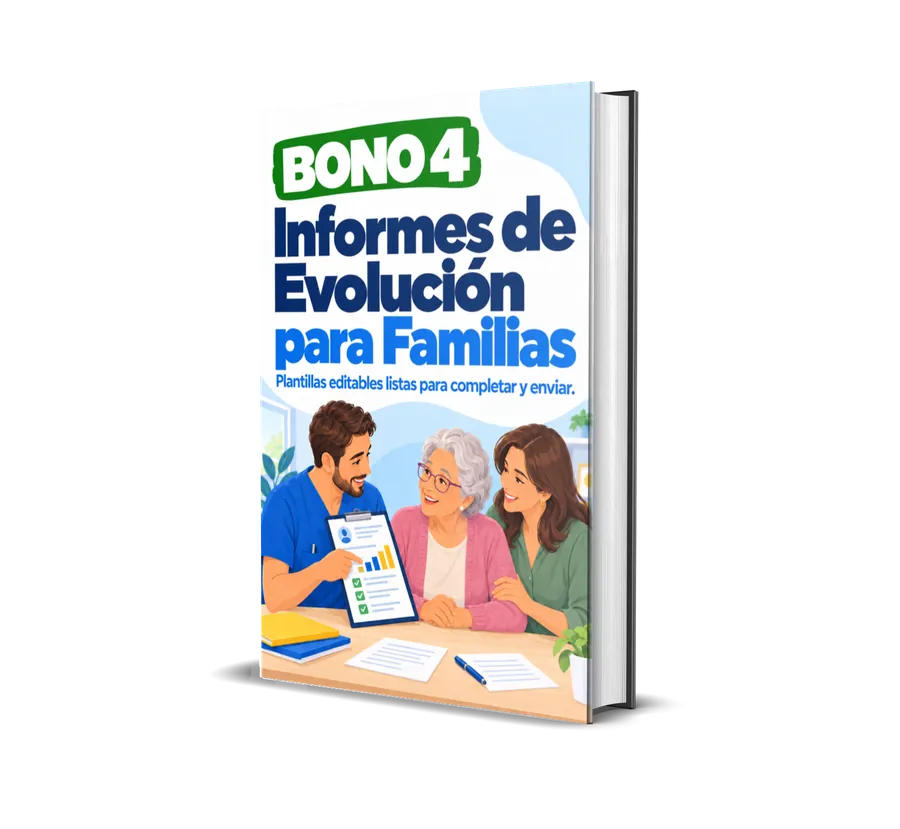
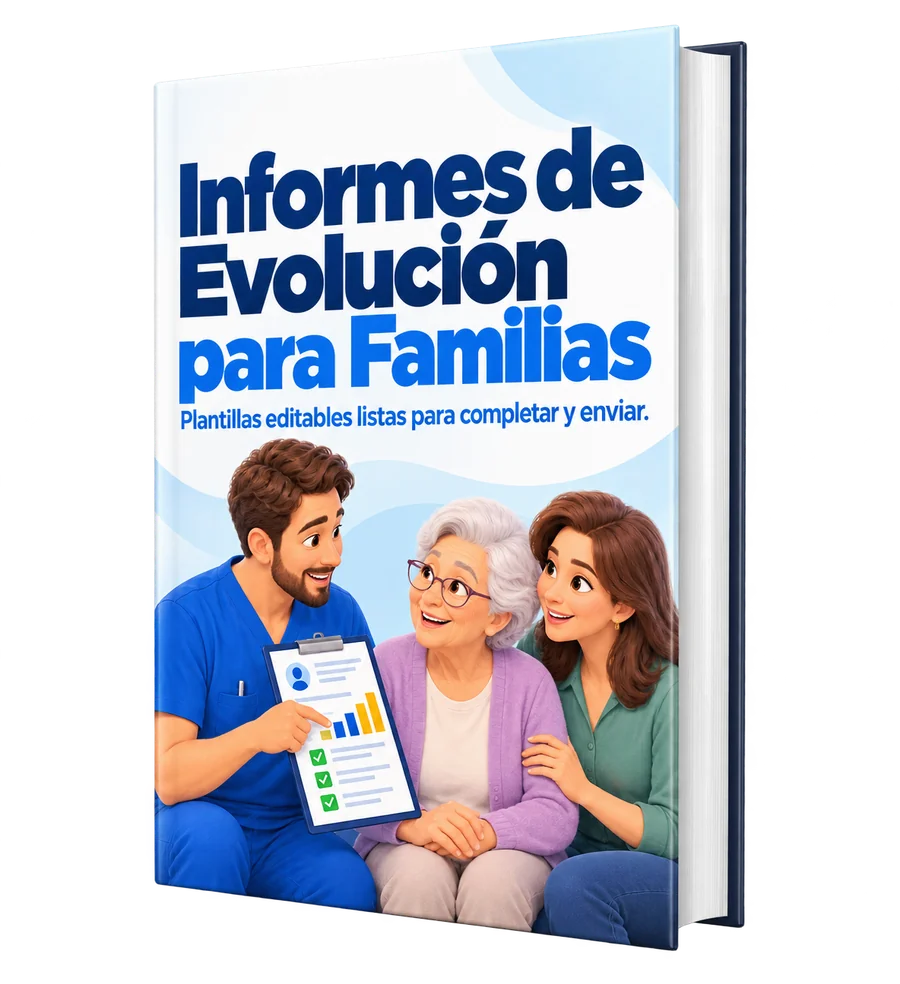
Replace bonus mockups, drop calendar bonus, add 2 bonuses + checklist
- Bono 01/02/03 (Evaluación, Adaptaciones, Informes para Familias):
  swapped in the new 3D transparent mockups provided, titles/copy
  untouched. Images still rendered with no card/border/shadow/filter
  on the wrapper — only the existing bonus-card frame.
- Removed "Calendario de Sesiones Listas para 3 Meses" entirely: its
  card, mockup, copy and price row. No other reference to it existed
  in the offer summary or FAQ.
- Added two new bonuses, same card pattern: "+100 Ejercicios ·
  Movilidad Reducida" and "Armador de Sesiones", with their mockups
  and the exact copy given. Bonus tags renumbered 01-05.
- Offer card summary ("resumo") now lists all 5 bonuses by name
  (previously collapsed into one generic "Bonos incluidos" line).
  Price/installments/checkout untouched.
- New "Todo lo que incluye" section right after the demo vitrine:
  single-column list of 5 white rounded cards, green check left,
  semibold dark text right, exactly the 5 items specified (no "91
  láminas" item from the reference). No reference screenshot was
  found in the project files, so the vertical-card structure was
  built from the written description only.

diff --git a/index.html b/index.html
@@ -290,6 +290,13 @@ section{padding:72px 0;position:relative;overflow:hidden}
 .testi-slide img{height:auto;width:100%;object-fit:contain}
 @media(max-width:600px){.testi-slide{width:82vw}.testi-track{animation-duration:26s}}
 
+/* ============ TODO LO QUE INCLUYE ============ */
+.incl-list{display:grid;gap:14px;max-width:720px;margin:0 auto}
+.incl-item{display:flex;align-items:flex-start;gap:16px;background:#fff;border-radius:var(--r-md);padding:18px 20px;box-shadow:0 2px 10px rgba(30,41,59,.08)}
+.incl-check{width:30px;height:30px;flex:0 0 30px;border-radius:50%;background:var(--vivid-green);color:#fff;display:grid;place-items:center;margin-top:2px;font-size:15px;line-height:1}
+.incl-item p{font-weight:600;color:var(--foreground);font-size:1rem;line-height:1.45}
+@media(max-width:600px){.incl-item{padding:16px 18px;gap:12px}}
+
 /* ============ BONUS ============ */
 .bonus-banner{
   background:var(--brand-blue);color:#fff;border-radius:var(--r-lg);
@@ -677,6 +684,20 @@ footer .disclaimer{margin-top:14px;color:#64748B;font-size:.75rem}
   <div class="lb-counter" id="lbCounter">1 / 9</div>
 </div>
 
+<!-- ═══════════ 6b. TODO LO QUE INCLUYE ═══════════ -->
+<section>
+  <div class="container">
+    <h2 class="reveal" style="text-align:center;margin-bottom:32px">Todo lo que incluye</h2>
+    <div class="incl-list">
+      <div class="incl-item reveal"><span class="incl-check">✓</span><p>1500 páginas organizadas por tomo, nivel y objetivo</p></div>
+      <div class="incl-item reveal"><span class="incl-check">✓</span><p>Ejercicios físicos, cognitivos, estiramientos y dinámicas grupales</p></div>
+      <div class="incl-item reveal"><span class="incl-check">✓</span><p>Con y sin equipamiento · un ejercicio por página, ilustrado</p></div>
+      <div class="incl-item reveal"><span class="incl-check">✓</span><p>Listos para imprimir en A4 o mostrar en pantalla</p></div>
+      <div class="incl-item reveal"><span class="incl-check">✓</span><p>Para sesión individual, en grupo, rehabilitación o estimulación</p></div>
+    </div>
+  </div>
+</section>
+
 <!-- ═══════════ 7. BONOS ═══════════ -->
 <section>
   <div class="container">
@@ -695,7 +716,7 @@ footer .disclaimer{margin-top:14px;color:#64748B;font-size:.75rem}
       <div class="card bonus-card reveal">
         <span class="bonus-tag">Bono 01</span>
         <h3>Guía de Evaluación Funcional del Adulto Mayor</h3>
-        <div class="bonus-img-wrap"><img src="images/bono1.webp" alt="Guía de Evaluación Funcional del Adulto Mayor" width="900" height="829" loading="lazy"></div>
+        <div class="bonus-img-wrap"><img src="images/bono1.webp" alt="Guía de Evaluación Funcional del Adulto Mayor" width="900" height="1038" loading="lazy"></div>
         <p style="color:#475569;font-size:.9375rem;margin-top:8px">Sabrás en qué punto está tu adulto mayor desde el primer día: su equilibrio, su fuerza, su movilidad y sus limitaciones, medidos con pruebas simples y claras. Con fichas listas para registrar cada evaluación y ver, mes a mes, cómo avanza.</p>
         <div class="price-row">
           <span class="price-old">DE $19,90</span>
@@ -706,7 +727,7 @@ footer .disclaimer{margin-top:14px;color:#64748B;font-size:.75rem}
       <div class="card bonus-card reveal">
         <span class="bonus-tag">Bono 02</span>
         <h3>Guía de Adaptaciones por Condición de Salud</h3>
-        <div class="bonus-img-wrap"><img src="images/bono2.webp" alt="Guía de Adaptaciones por Condición de Salud" width="900" height="829" loading="lazy"></div>
+        <div class="bonus-img-wrap"><img src="images/bono2.webp" alt="Guía de Adaptaciones por Condición de Salud" width="900" height="1350" loading="lazy"></div>
         <p style="color:#475569;font-size:.9375rem;margin-top:8px">Te orienta cómo adaptar cada actividad a la condición de tu adulto mayor: qué cuidar, qué evitar y cuáles son las señales de alerta para detenerte a tiempo. Un apoyo para decidir con más criterio, sin reemplazar la valoración profesional cuando corresponda.</p>
         <div class="price-row">
           <span class="price-old">DE $19,90</span>
@@ -716,9 +737,9 @@ footer .disclaimer{margin-top:14px;color:#64748B;font-size:.75rem}
 
       <div class="card bonus-card reveal">
         <span class="bonus-tag">Bono 03</span>
-        <h3>Calendario de Sesiones Listas para 3 Meses</h3>
-        <div class="bonus-img-wrap"><img src="images/bono3.webp" alt="Calendario de Sesiones Listas para 3 Meses" width="900" height="829" loading="lazy"></div>
-        <p style="color:#475569;font-size:.9375rem;margin-top:8px">Un calendario con cada sesión ya armada para los próximos 3 meses. Día por día, te dice qué actividades del kit aplicar, en qué orden y cómo ir aumentando la dificultad, organizado por objetivo: prevención de caídas, memoria, fuerza, autonomía y talleres grupales.</p>
+        <h3>Informes de Evolución para Familias</h3>
+        <div class="bonus-img-wrap"><img src="images/bono4.webp" alt="Informes de Evolución para Familias" width="900" height="984" loading="lazy"></div>
+        <p style="color:#475569;font-size:.9375rem;margin-top:8px">Muestra a cada familia, de forma clara y profesional, todo lo que tu adulto mayor ha avanzado contigo. Informes listos para completar y enviar, que transmiten confianza y respaldan tu trabajo.</p>
         <div class="price-row">
           <span class="price-old">DE $19,90</span>
           <span class="price-free">Gratis</span>
@@ -727,9 +748,20 @@ footer .disclaimer{margin-top:14px;color:#64748B;font-size:.75rem}
 
       <div class="card bonus-card reveal">
         <span class="bonus-tag">Bono 04</span>
-        <h3>Informes de Evolución para Familias</h3>
-        <div class="bonus-img-wrap"><img src="images/bono4.webp" alt="Informes de Evolución para Familias" width="900" height="829" loading="lazy"></div>
-        <p style="color:#475569;font-size:.9375rem;margin-top:8px">Muestra a cada familia, de forma clara y profesional, todo lo que tu adulto mayor ha avanzado contigo. Informes listos para completar y enviar, que transmiten confianza y respaldan tu trabajo.</p>
+        <h3>+100 Ejercicios · Movilidad Reducida</h3>
+        <div class="bonus-img-wrap"><img src="images/bono5.webp" alt="+100 Ejercicios · Movilidad Reducida" width="900" height="1350" loading="lazy"></div>
+        <p style="color:#475569;font-size:.9375rem;margin-top:8px">Más de 100 ejercicios adaptados para adultos mayores con movilidad reducida, con opciones para realizar en silla. Amplía tu repertorio y elige actividades según las capacidades y necesidades de cada persona.</p>
+        <div class="price-row">
+          <span class="price-old">DE $19,90</span>
+          <span class="price-free">Gratis</span>
+        </div>
+      </div>
+
+      <div class="card bonus-card reveal">
+        <span class="bonus-tag">Bono 05</span>
+        <h3>Armador de Sesiones</h3>
+        <div class="bonus-img-wrap"><img src="images/bono6.webp" alt="Armador de Sesiones" width="900" height="1350" loading="lazy"></div>
+        <p style="color:#475569;font-size:.9375rem;margin-top:8px">Plantillas para organizar sesiones por objetivo y nivel, combinando calentamiento, fuerza, movilidad, equilibrio y relajación. Elige las actividades del material y reúne tu sesión en un plan claro, sin empezar desde cero.</p>
         <div class="price-row">
           <span class="price-old">DE $19,90</span>
           <span class="price-free">Gratis</span>
@@ -826,7 +858,11 @@ footer .disclaimer{margin-top:14px;color:#64748B;font-size:.75rem}
         <li><span class="tick"><svg width="15" height="15" viewBox="0 0 24 24" fill="none" stroke="currentColor" stroke-width="3" stroke-linecap="round" stroke-linejoin="round"><polyline points="20 6 9 17 4 12"/></svg></span> Material para imprimir o consultar en pantalla</li>
         <li><span class="tick"><svg width="15" height="15" viewBox="0 0 24 24" fill="none" stroke="currentColor" stroke-width="3" stroke-linecap="round" stroke-linejoin="round"><polyline points="20 6 9 17 4 12"/></svg></span> Acceso desde el celular o la computadora</li>
         <li><span class="tick"><svg width="15" height="15" viewBox="0 0 24 24" fill="none" stroke="currentColor" stroke-width="3" stroke-linecap="round" stroke-linejoin="round"><polyline points="20 6 9 17 4 12"/></svg></span> Acceso de por vida</li>
-        <li><span class="tick"><svg width="15" height="15" viewBox="0 0 24 24" fill="none" stroke="currentColor" stroke-width="3" stroke-linecap="round" stroke-linejoin="round"><polyline points="20 6 9 17 4 12"/></svg></span> Bonos incluidos</li>
+        <li><span class="gift-ico">🎁</span> Guía de Evaluación Funcional del Adulto Mayor</li>
+        <li><span class="gift-ico">🎁</span> Guía de Adaptaciones por Condición de Salud</li>
+        <li><span class="gift-ico">🎁</span> Informes de Evolución para Familias</li>
+        <li><span class="gift-ico">🎁</span> +100 Ejercicios · Movilidad Reducida</li>
+        <li><span class="gift-ico">🎁</span> Armador de Sesiones</li>
         <li><span class="tick"><svg width="15" height="15" viewBox="0 0 24 24" fill="none" stroke="currentColor" stroke-width="3" stroke-linecap="round" stroke-linejoin="round"><polyline points="20 6 9 17 4 12"/></svg></span> Garantía de 7 días</li>
         <li><span class="tick"><svg width="15" height="15" viewBox="0 0 24 24" fill="none" stroke="currentColor" stroke-width="3" stroke-linecap="round" stroke-linejoin="round"><polyline points="20 6 9 17 4 12"/></svg></span> Actualizaciones mensuales</li>
         <li><span class="tick"><svg width="15" height="15" viewBox="0 0 24 24" fill="none" stroke="currentColor" stroke-width="3" stroke-linecap="round" stroke-linejoin="round"><polyline points="20 6 9 17 4 12"/></svg></span> Soporte prioritario</li>
